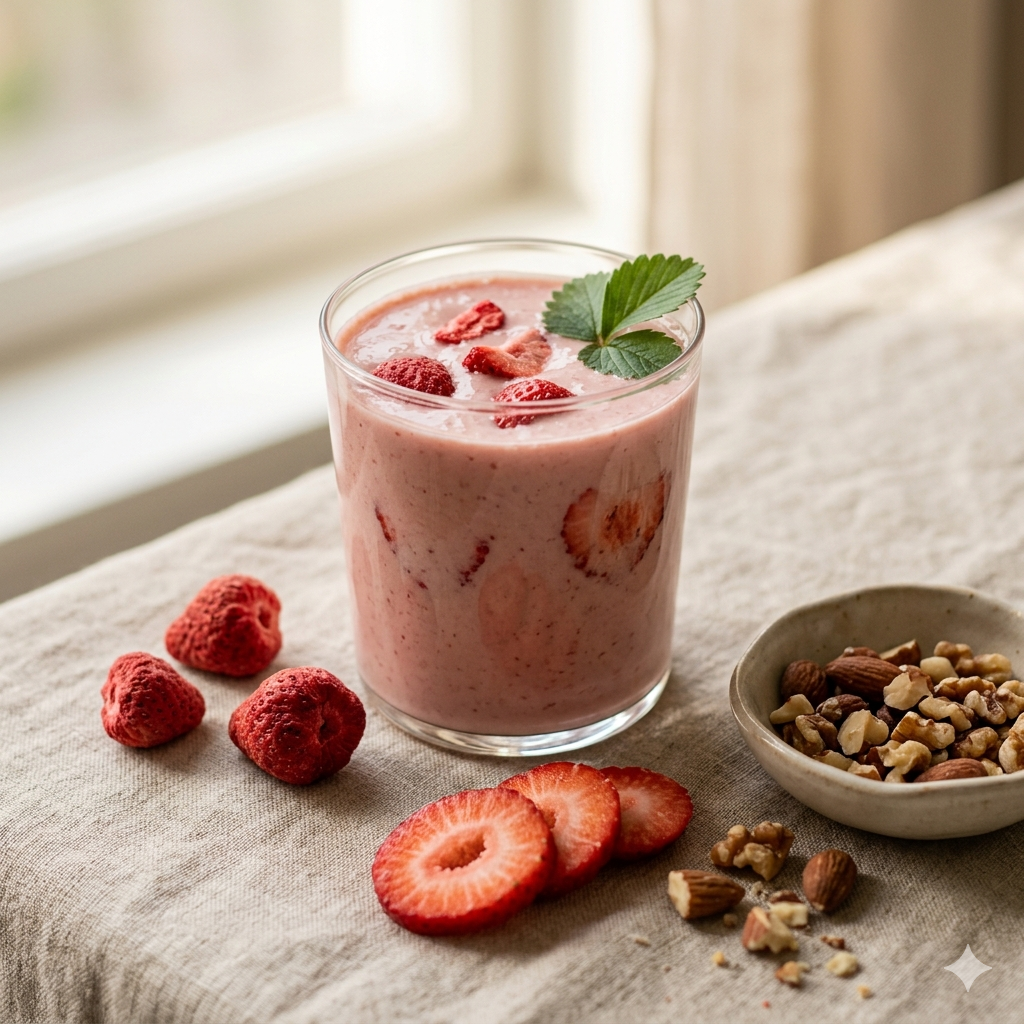
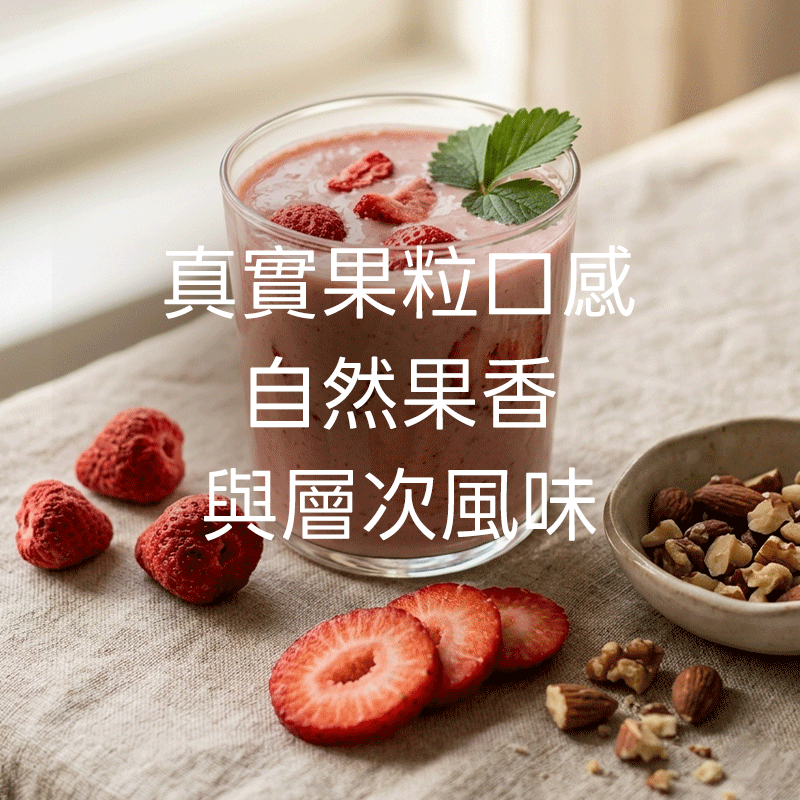
feat(home): replace hero cards with 0623 updated versions

diff --git a/apps/web/src/app/page.tsx b/apps/web/src/app/page.tsx
@@ -63,10 +63,10 @@ function HeroSection({ content }: { content?: HeroContent | null }) {
 }
 
 const HOME_BLOCKS = [
-  { img: "/home/block1.jpg", alt: "三種植物蛋白", href: "/blog/why-three-plant-proteins" },
-  { img: "/home/block2.jpg", alt: "真實果粒口感", href: "/blog/story-of-rr-vegan-portein-powder" },
-  { img: "/home/block3.jpg", alt: "公益存款計畫", href: "/idea" },
-  { img: "/home/block4.jpg", alt: "會員專屬回饋", href: "/membership" },
+  { img: "/home/block1.png", alt: "三種植物蛋白", href: "/blog/why-three-plant-proteins" },
+  { img: "/home/block2.png", alt: "真實果粒口感", href: "/blog/story-of-rr-vegan-portein-powder" },
+  { img: "/home/block3.png", alt: "公益存款計畫", href: "/idea" },
+  { img: "/home/block4.png", alt: "會員專屬回饋", href: "/membership" },
 ]
 
 function HomeSquareImages() {
